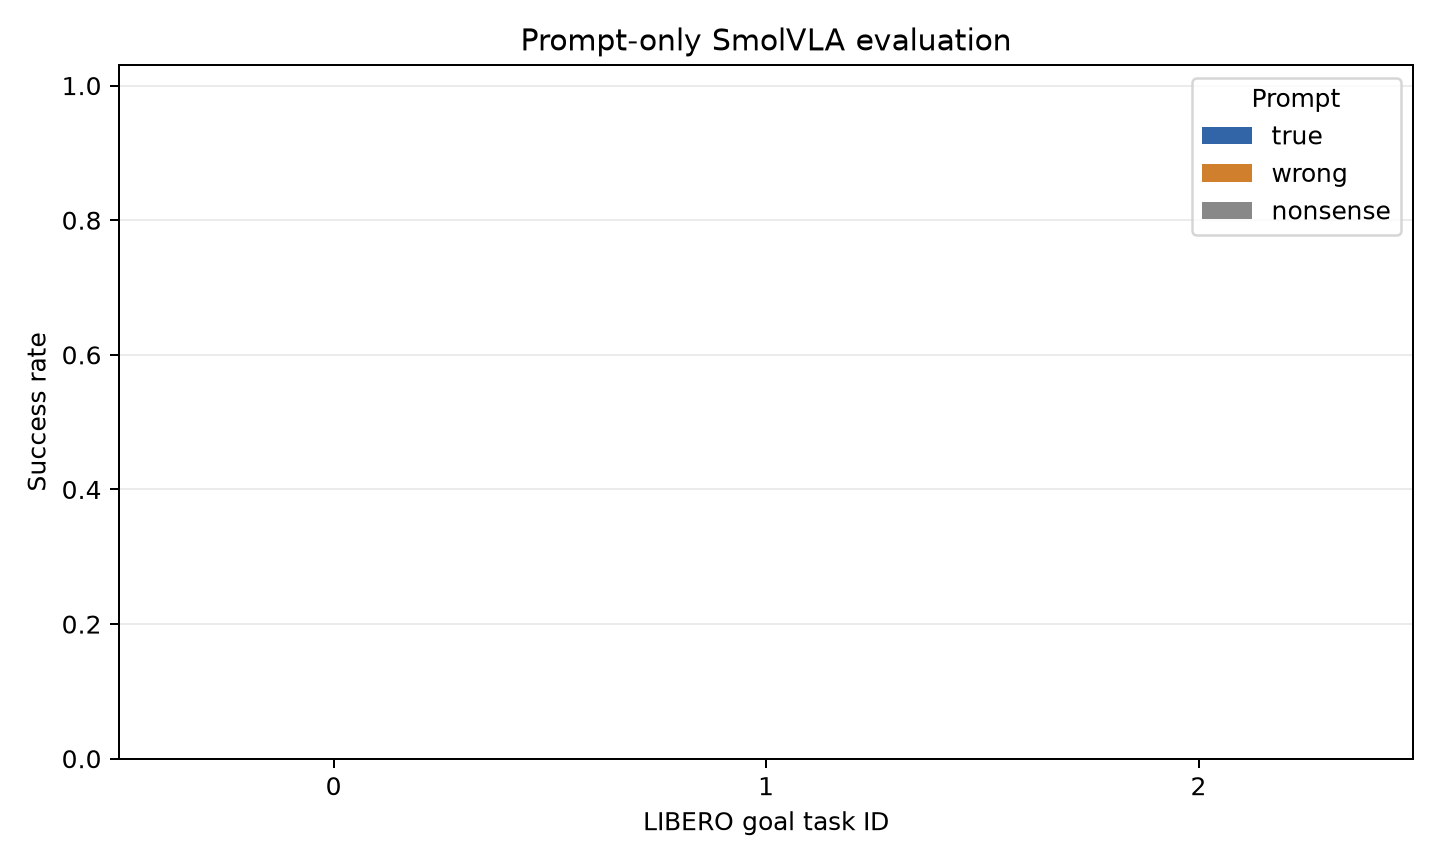
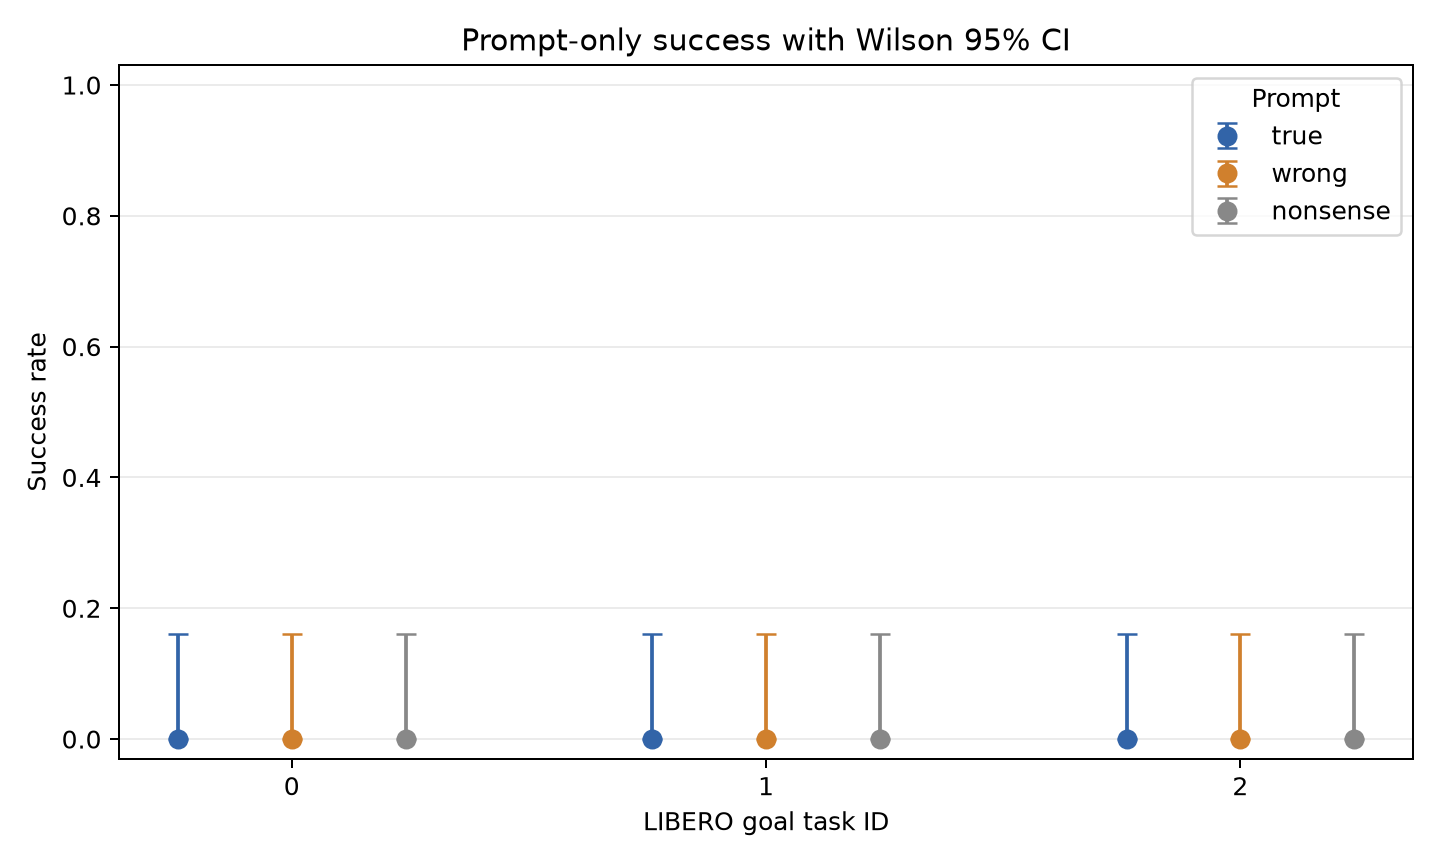
Show uncertainty on zero-success prompt plot

diff --git a/experiments/2026-08-15_smolvla_prompt_only/src/smolvla_prompt_only/aggregate.py b/experiments/2026-08-15_smolvla_prompt_only/src/smolvla_prompt_only/aggregate.py
@@ -129,22 +129,32 @@ def write_outputs(summary: dict[str, Any], output_dir: Path) -> None:
     fig, ax = plt.subplots(figsize=(8.0, 4.8))
     colors = {"true": "#3264a8", "wrong": "#d0802d", "nonsense": "#888888"}
     for offset, condition in enumerate(PROMPT_CONDITIONS, start=-1):
-        values = [
-            summary["tasks"][str(task_id)]["conditions"][condition]["success_rate"]
+        metrics = [
+            summary["tasks"][str(task_id)]["conditions"][condition]
             for task_id in task_ids
         ]
-        ax.bar(
+        values = [item["success_rate"] for item in metrics]
+        lower_errors = [
+            value - item["ci95_low"] for value, item in zip(values, metrics)
+        ]
+        upper_errors = [
+            item["ci95_high"] - value for value, item in zip(values, metrics)
+        ]
+        ax.errorbar(
             [position + offset * width for position in x_positions],
             values,
-            width=width,
+            yerr=[lower_errors, upper_errors],
+            fmt="o",
+            markersize=7,
+            capsize=4,
             label=condition,
             color=colors[condition],
         )
     ax.set(
         xlabel="LIBERO goal task ID",
         ylabel="Success rate",
-        ylim=(0.0, 1.03),
-        title="Prompt-only SmolVLA evaluation",
+        ylim=(-0.03, 1.03),
+        title="Prompt-only success with Wilson 95% CI",
     )
     ax.set_xticks(x_positions, [str(task_id) for task_id in task_ids])
     ax.grid(axis="y", alpha=0.25)
